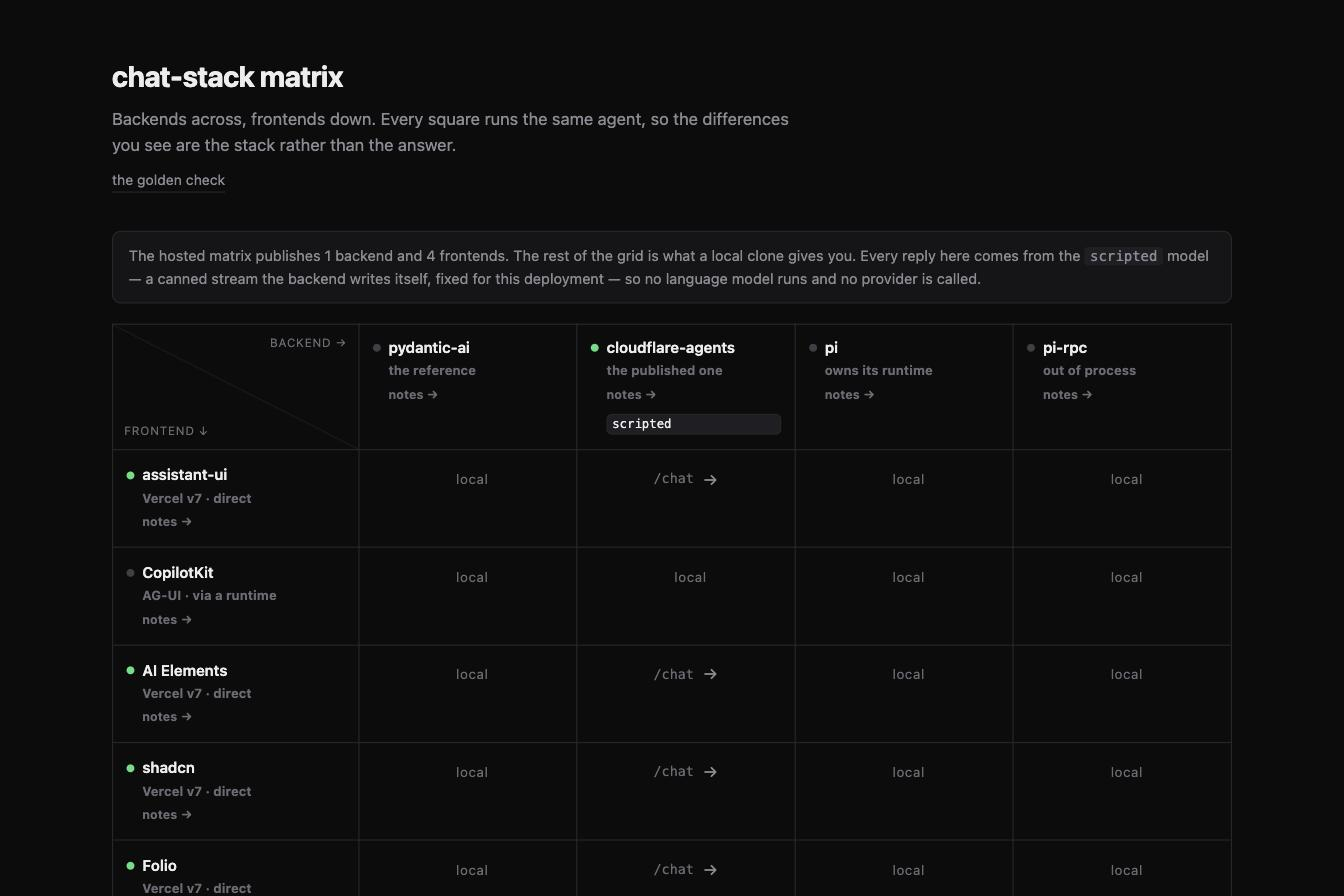
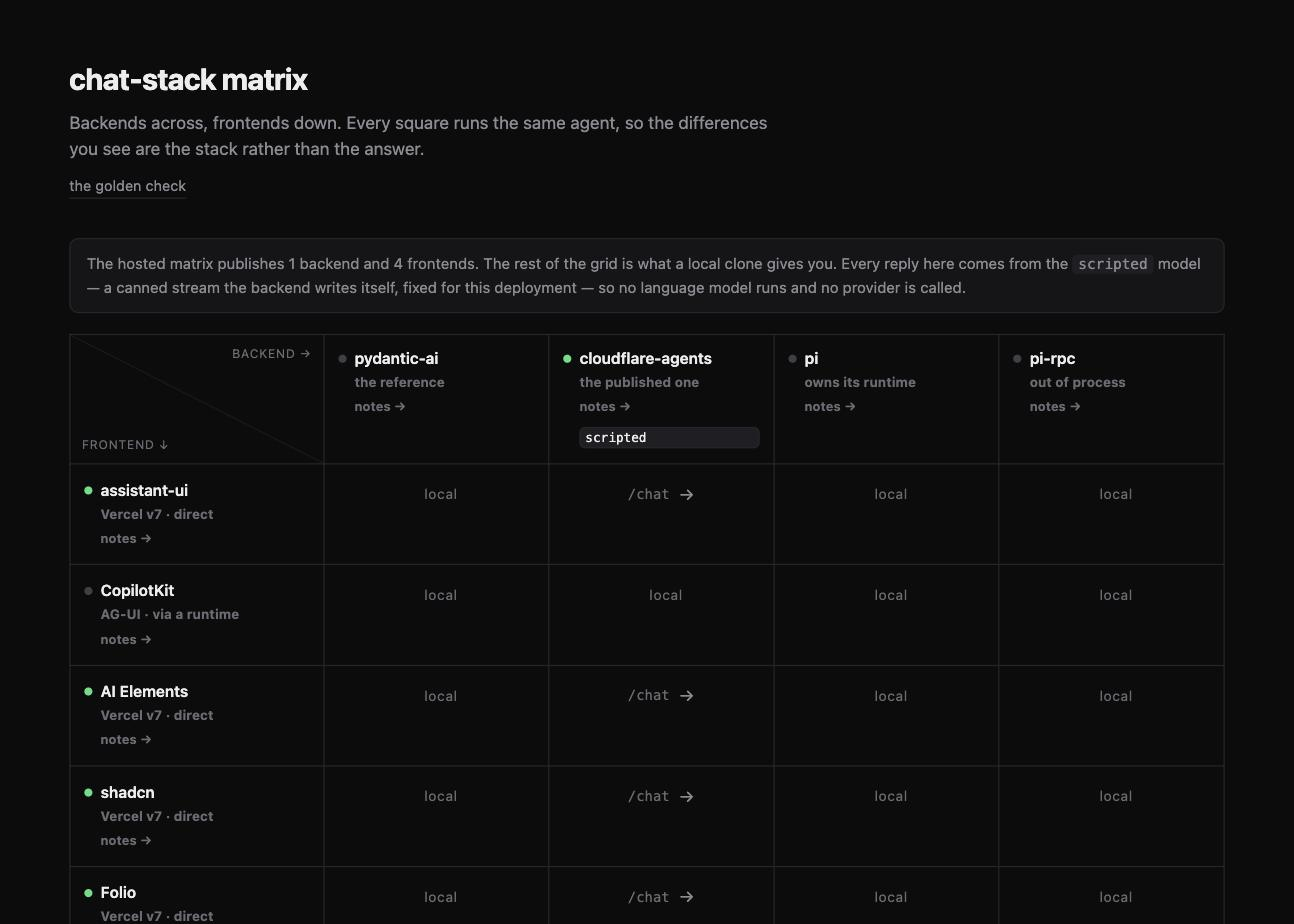
fix(demo): take all six findings from the codex pass on c4722db6
Two of them are the same class of bug — a variable trusted where trusting it
writes to Cloudflare — and both are now checked before the first remote write,
because publish.sh deploys the backend first and "it failed partway" is not
something you can undo by noticing.

`--no-build` skipped the build and not the deploy while still deriving names from
the current WORKER_PREFIX, so build the demo, hit one failed deploy, retry
without the prefix, and `wrangler deploy --name chat-stack-…` publishes
demo-linked pages over the live matrix. Every URL is baked in at build time, so
nothing downstream would have noticed: the assets are valid and the names are
real. build_all now records mode, prefix, subdomain, backend URL and cell list to
index/dist/.build, and a build-skipping deploy or serve compares against it and
refuses on a mismatch, printing both sides.

DEMO_CELLS took anything. An unknown name or `jinja` survived until its build
directory turned out to be missing, which is after the backend has been deployed;
duplicates built and deployed a cell twice; and a value that was present but
named nothing read as "publish everything", the opposite of what typing it means.
It is now validated for membership, duplicates and emptiness at source time, and
an empty array is never expanded — `"${a[@]}"` on one aborts under `set -u` in
bash 3.2, which is what /bin/bash is here.

The hub was making two claims it couldn't back:
[…]

diff --git a/index/index.html b/index/index.html
@@ -459,6 +459,17 @@ const modelSig = {};   // backend name -> last /models body, to avoid rebuilding
 const modelVia = {};   // backend name -> how the current model is reached
 const modelState = {}; // backend name -> { current, locked }, for the hosted banner
 
+/** Everything a backend's /models told us, dropped together. Called wherever
+ *  `health[name]` goes null, and that pairing is the point: the banner's
+ *  no-language-model sentence is read out of modelState, so a backend that stops
+ *  answering while its last answer stayed cached is exactly how a claim outlives
+ *  the evidence for it. The three are one fact and expire as one. */
+const forgetModels = (name) => {
+  delete modelSig[name];
+  delete modelVia[name];
+  delete modelState[name];
+};
+
 async function refreshModels(b, c) {
   const th = headEl.querySelector(`th[data-c="${c}"]`);
   const select = th.querySelector("select.model");
@@ -469,8 +480,7 @@ async function refreshModels(b, c) {
     data = await res.json();
   } catch {
     select.hidden = true;
-    delete modelVia[b.name];
-    delete modelState[b.name];
+    forgetModels(b.name);
     return;
   }
   select.hidden = false;
@@ -646,7 +656,13 @@ function renderOutside() {
   const ok = up[OUTSIDE.id] === true;
   outsideWrapEl.hidden = false;
   outsideEl.classList.toggle("absent", absent);
-  outsideEl.href = ok ? frontendUrl(OUTSIDE) : "";
+  // Remove the attribute rather than blank it. `href=""` is not "no link": it
+  // stays keyboard-focusable and resolves to the current document, so tabbing to
+  // a card that says it isn't here and pressing Enter reloads the hub. An anchor
+  // with no href attribute is inert, which is the same thing renderSquare gets by
+  // building a span for a square that isn't live.
+  if (ok) outsideEl.href = frontendUrl(OUTSIDE);
+  else outsideEl.removeAttribute("href");
   outsideEl.querySelector(".go").textContent = absent
     ? "not in this demo — a local clone runs it"
     : ok
@@ -749,7 +765,11 @@ async function refresh() {
       // A hosted page never probes localhost. The backends it doesn't publish
       // are somebody else's machine, and claiming they're up because they
       // happen to run on the author's would be a lie in every other browser.
-      if (localOnly(b)) return void (health[b.name] = null);
+      if (localOnly(b)) {
+        health[b.name] = null;
+        forgetModels(b.name);
+        return;
+      }
       try {
         const res = await fetch(`${backendUrl(b)}/health`, { cache: "no-store" });
         health[b.name] = res.ok ? await res.json() : null;
@@ -757,7 +777,13 @@ async function refresh() {
         health[b.name] = null;
       }
       if (health[b.name]) await refreshModels(b, c);
-      else headEl.querySelector(`th[data-c="${c}"] select.model`).hidden = true;
+      else {
+        // A backend that has stopped answering /health is not going to answer
+        // /models either, and the picker is hidden — so anything still held from
+        // its last answer is unowned state that the banner would keep reading.
+        forgetModels(b.name);
+        headEl.querySelector(`th[data-c="${c}"] select.model`).hidden = true;
+      }
     }),
     // Same rule as the backends above, and for the same reason: a cell this
     // build doesn't publish lives on localhost, and a public page asking every

diff --git a/docs/publishing.md b/docs/publishing.md
@@ -344,6 +344,33 @@ Objects, its own thread store, starting empty. Everything else about it is the
 committed configuration, which is the point — a demo that ran a special build
 would be evidence about the special build.
 
+Both variables are checked rather than trusted, and the two checks guard the two
+ways this goes wrong quietly.
+
+`DEMO_CELLS` has to name cells that exist, name each once, and name at least one,
+and it is checked when `hosted.sh` is sourced — before a build starts and before
+the backend, which deploys first, is written. An unknown name would otherwise
+survive until its directory was missing, which is after a remote write.
+
+`--no-build` has to match the build it is skipping. `build_all` writes what it
+built for to `index/dist/.build` — mode, prefix, subdomain, backend URL, cell
+list — and a `--no-build` deploy compares that against its own invocation and
+refuses on a mismatch:
+
+```
+the built artifacts are for a different deployment.
+  built:    mode=production prefix=chat-matrix-demo … cells=assistant-ui ai-elements shadcn folio
+  asked for: mode=production prefix=chat-stack … cells=assistant-ui copilotkit ai-elements shadcn folio
+```
+
+That is the sequence worth naming, because it is a plausible afternoon and it
+ends on the live matrix: publish the demo, hit one failed deploy, retry with
+`--no-build` in a shell that has lost the prefix, and `wrangler deploy --name
+chat-stack-…` cheerfully publishes demo-linked pages over the deployment. Every
+URL in those artifacts is baked in, so nothing downstream would notice — the
+assets are valid and the names are real. `preview.sh --no-build` makes the same
+check for the same reason.
+
 **Verify** — the same three the deployment gets, against the demo's names:
 
 ```sh
@@ -370,10 +397,19 @@ that has a rule for Chrome and none for a downloaded binary is the usual reason,
 and it looks like every navigation timing out rather than like a block —
 `PROBE_BROWSER_CHANNEL=chrome` drives the installed browser instead.
 
-**Undo:** `bunx wrangler delete --name chat-matrix-demo-<x>` per Worker. Unlike
-step 3's undo this one costs nothing to get wrong: the demo's Durable Objects
-hold only what visitors typed into a demo, and rebuilding it is the one command
-above.
+**Undo:** all six by name, from `index/` because that is where wrangler is
+installed. It asks before each one; `--force` skips the asking.
+
+```sh
+cd index
+for w in index assistant-ui ai-elements shadcn folio backend-cloudflare-agents; do
+  bunx wrangler delete --name "chat-matrix-demo-$w"
+done
+```
+
+Unlike step 3's undo this one costs nothing to get wrong: the demo's Durable
+Objects hold only what visitors typed into a demo, and rebuilding it is the one
+command above.
 
 ## When Folio publishes
 
@@ -449,10 +485,17 @@ cheapest useful slice to add first.
 **`jinja` isn't hosted.** The hosted subset is static exports plus one Worker;
 the monolith is a Python process with a SQLite file, and it's the one square the
 published matrix can't offer. `index/monolith.html` says where it runs and why,
-in plain text rather than a link that would die on a public URL. It is no longer
-the only one: `copilotkit` is out of a hosted deployment too until its runtime
-hop reaches the backend through a service binding, and that one is a defect with
-a fix rather than a shape that was never going to fit.
+in plain text rather than a link that would die on a public URL.
+
+**`copilotkit` is broken hosted, and still in the default subset.** Its runtime
+hop can't reach the backend until it goes through a service binding (step 3), so
+`./scripts/publish.sh` as it stands deploys a Worker that serves its page and
+answers no turn. Removing it from `HOSTED_CELLS` would make the default honest
+in one sense and quietly smaller in another — the published matrix would stop
+offering a cell it has always offered — and that is a decision about what is
+published rather than a bug fix, so it is recorded here and not taken.
+`DEMO_CELLS` is how one deployment publishes only the four that work, which is
+what the throwaway matrix above does. Unlike `jinja`, this one has a fix waiting.
 
 **A cell left out is drawn, not hidden.** Both of those cases used to differ in
 the hub: an unhosted backend kept its column and said `local`, and an unhosted

diff --git a/README.md b/README.md
@@ -207,8 +207,12 @@ Worker on the same `workers.dev` zone, which the platform refuses with `error
 code: 1042`, so a turn sends and no reply ever arrives. Nothing about the cell
 is wrong — it is correct under `next dev` — and a service binding is the fix;
 [`docs/publishing.md`](docs/publishing.md) carries both the diagnosis and the
-shape of it. Until then a deployment publishes the four cells that do work and
-the hub draws the fifth as a square you can't click.
+shape of it. The default subset still names all five, so `./scripts/publish.sh`
+deploys a CopilotKit Worker that serves its page and can't answer a turn.
+Narrowing that default is a decision about what the published matrix *is* rather
+than a fix, so it's written down here instead of made. `DEMO_CELLS="assistant-ui
+ai-elements shadcn folio"` publishes only the four that work, and the hub then
+draws the fifth as a square you can't click.
 
 Two variables move a whole deployment aside, for a link worth sharing before the
 published one is settled: `WORKER_PREFIX` renames every Worker and every URL
